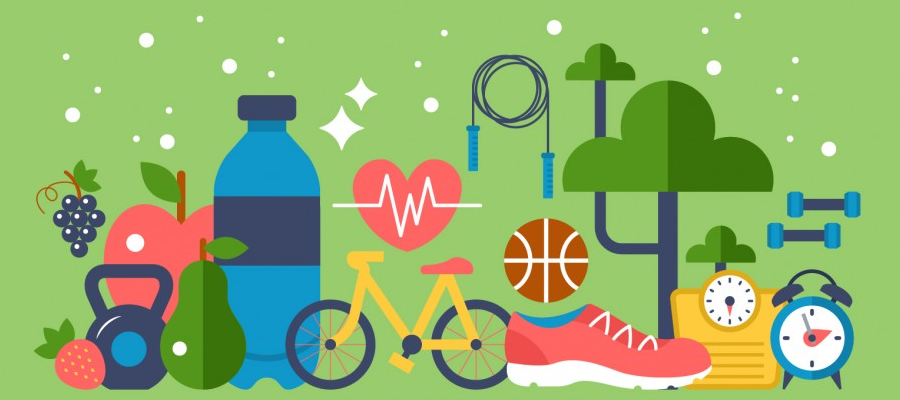
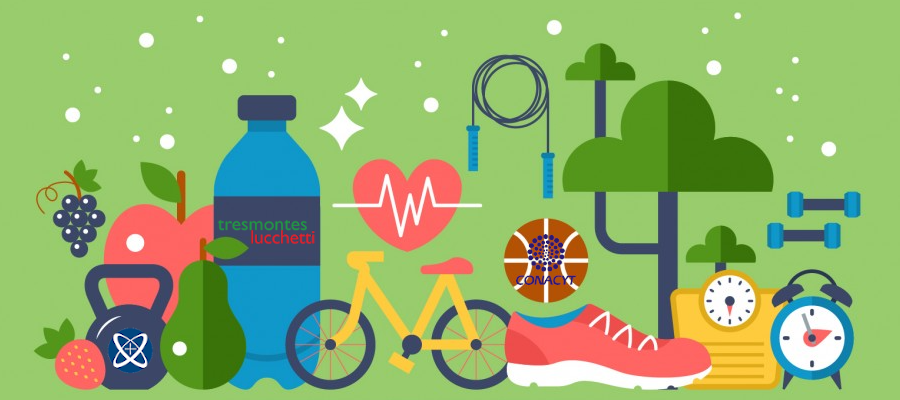
Agregando las referencias de apoyo

Changed region(s): [[0.56, 0.57, 0.6533, 0.72], [0.2489, 0.54, 0.3733, 0.63], [0.0933, 0.81, 0.1867, 0.93]]

diff --git a/src/js/views/home.html b/src/js/views/home.html
@@ -5,7 +5,8 @@
 <div class="oj-hybrid-padding" align="center">
   <h3>Sistema de Vigilancia Alimentaria y Nutricional del ITESO</h3>
   <div>
-      Bienvenido, este es un esfuerzo del ITESO por crear un sistema confiable que pueda evaluar los datos antropometricos,
+      Bienvenido, este es un esfuerzo del ITESO con el apoyo de 
+      Tresmontes Lucchetti y el CONACYT por crear un sistema confiable que pueda evaluar los datos antropometricos,
       habitos alimentarios y actividades fisicas para poder diseñar estrategias de prevención de enfermedades nutricionales
       y cardiovasculares.
       <br>
